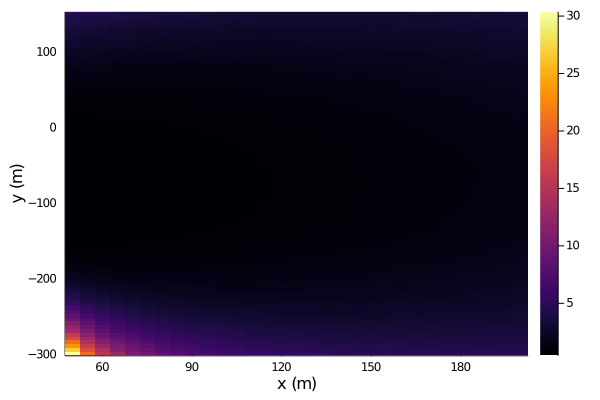
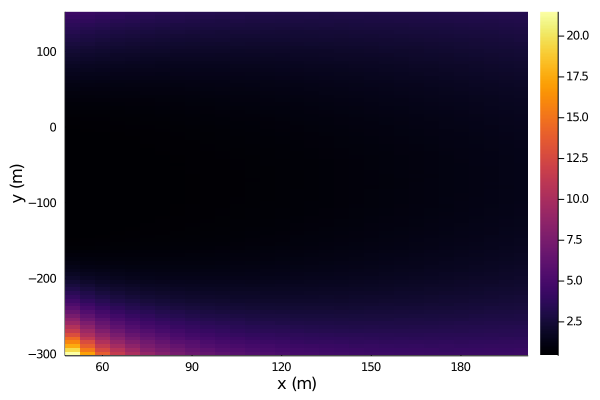
fix(*): worst case for rx position error

diff --git a/README.md b/README.md
@@ -45,7 +45,7 @@ function plotrmsemap(;ϵ=0.)
             end
         end
     end
-    heatmap(xtxposs, ytxposs, dropdims(maximum(μ; dims=3); dims=3)'; xlabel="x (m)", ylabel="y (m)")
+    heatmap(xtxposs, ytxposs, dropdims(sum(μ; dims=3)/length(ztxposs); dims=3)'; xlabel="x (m)", ylabel="y (m)")
 end
 
 plotrmsemap(ϵ=0.)
